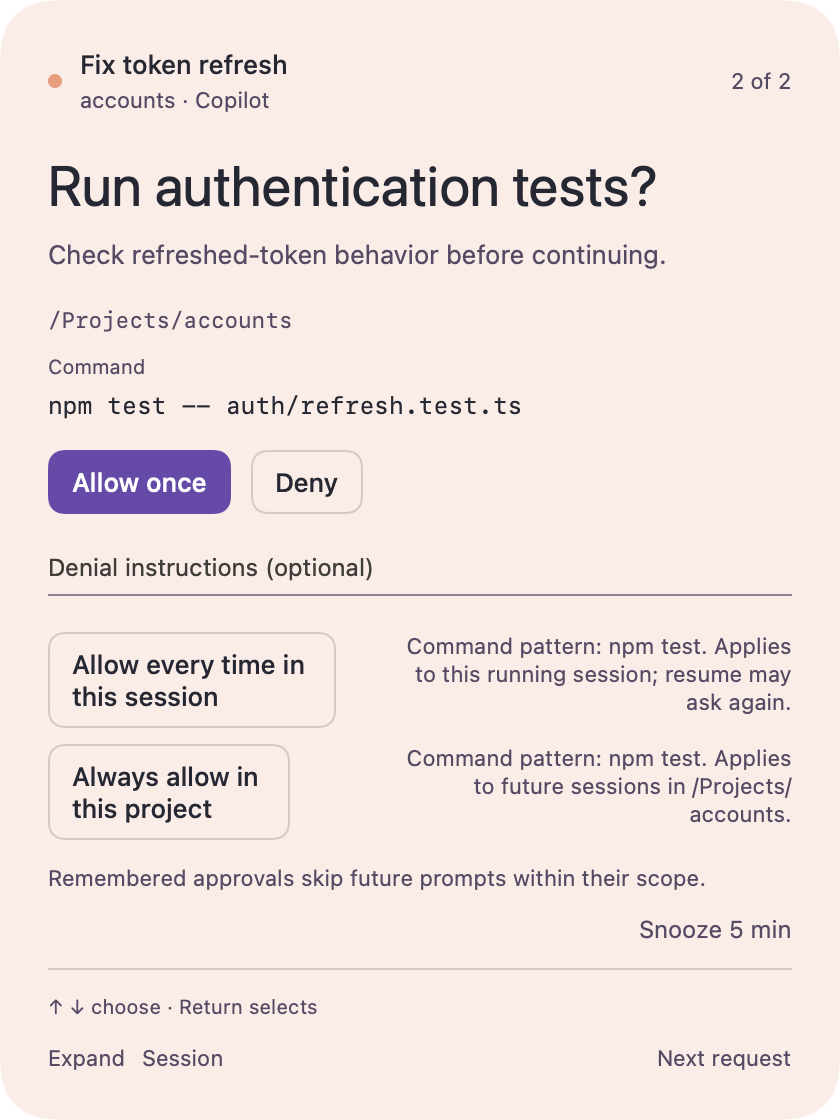
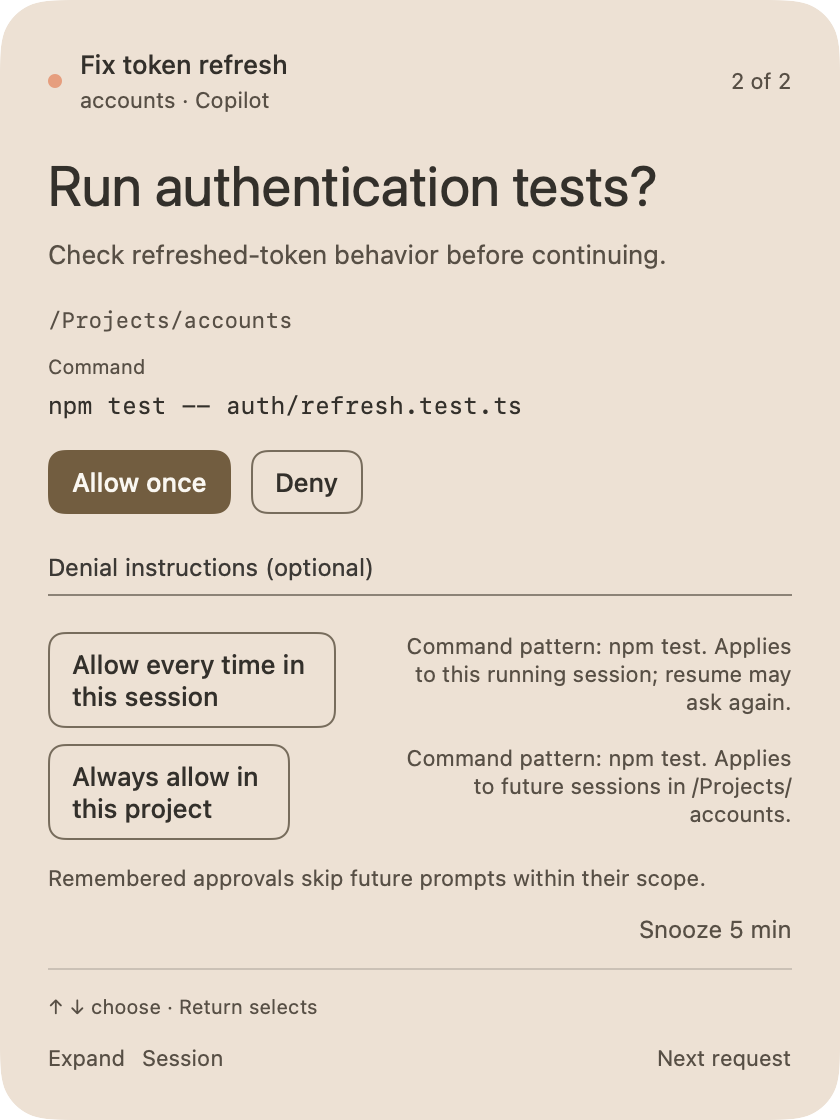
Follow macOS with warm beige and charcoal themes

diff --git a/Tests/UI/main.swift b/Tests/UI/main.swift
@@ -8,6 +8,7 @@ import Vision
     @MainActor static func main() throws {
         _ = NSApplication.shared
         NSApp.setActivationPolicy(.accessory)
+        NSApp.appearance = NSAppearance(named: .aqua)
         NSApp.finishLaunching()
         let plist = try PropertyListSerialization.propertyList(from: Data(contentsOf: URL(fileURLWithPath: "resources/Info.plist")), format: nil) as! [String: Any]
         precondition(plist["LSUIElement"] as? Bool != true, "Notify must be a normal Dock application, not a hidden menu-bar agent")
@@ -180,20 +181,49 @@ import Vision
         }
         let redCard = snapshot(0xEF4444), blueCard = snapshot(0x4488FF)
         store.setColor(0xF29A78, for: session)
-        let warmSurface = NSColor(store.sessionSurface(session)).usingColorSpace(.sRGB)!
-        precondition(warmSurface.redComponent > 0.90, "The lighter notification must retain a soft session tint")
         func luminance(_ color: NSColor) -> Double {
             func linear(_ value: Double) -> Double { value <= 0.04045 ? value / 12.92 : pow((value + 0.055) / 1.055, 2.4) }
             return 0.2126 * linear(color.redComponent) + 0.7152 * linear(color.greenComponent) + 0.0722 * linear(color.blueComponent)
         }
-        let noticeText = NSColor(Palette.noticeMuted).usingColorSpace(.sRGB)!
-        precondition(luminance(noticeText) < 0.25, "Light notifications need dark, readable detail text")
-        for color: UInt32 in [0xFFFFFF, 0xFFFF00, 0x00FF00, 0xF29A78, 0x408ED8, 0] {
-            store.setColor(color, for: session)
-            let surface = NSColor(store.sessionSurface(session)).usingColorSpace(.sRGB)!
-            let textLuminance = luminance(noticeText), surfaceLuminance = luminance(surface)
-            precondition((max(textLuminance, surfaceLuminance) + 0.05) / (min(textLuminance, surfaceLuminance) + 0.05) >= 4.5,
-                         "User-selected session colors must keep notification detail text readable")
+        func resolved(_ color: Color, appearance: NSAppearance.Name) -> NSColor {
+            var result: NSColor?
+            NSAppearance(named: appearance)!.performAsCurrentDrawingAppearance {
+                result = NSColor(color).usingColorSpace(.sRGB)
+            }
+            return result!
+        }
+        func contrast(_ foreground: NSColor, _ background: NSColor) -> Double {
+            let a = luminance(foreground), b = luminance(background)
+            return (max(a, b) + 0.05) / (min(a, b) + 0.05)
+        }
+        precondition(luminance(resolved(Palette.surface, appearance: .darkAqua)) < 0.15,
+                     "Dark macOS appearance must produce a genuinely dark workspace")
+        let lightSurface = resolved(Palette.surface, appearance: .aqua)
+        precondition(lightSurface.redComponent > lightSurface.blueComponent + 0.035,
+                     "Light mode must use warm beige rather than stark white")
+        for appearance: NSAppearance.Name in [.aqua, .darkAqua] {
+            for background in [Palette.surface, Palette.sidebar, Palette.raised] {
+                for foreground in [Palette.ink, Palette.muted] {
+                    precondition(contrast(resolved(foreground, appearance: appearance), resolved(background, appearance: appearance)) >= 4.5,
+                                 "Workspace text must remain readable in both appearances")
+                }
+            }
+            precondition(contrast(resolved(Palette.highlightInk, appearance: appearance), resolved(Palette.accent, appearance: appearance)) >= 4.5,
+                         "Highlighted actions must remain readable in both appearances")
+            for color: UInt32 in [0xFFFFFF, 0xFFFF00, 0x00FF00, 0xF29A78, 0x408ED8, 0] {
+                store.setColor(color, for: session)
+                let surface = resolved(store.sessionSurface(session), appearance: appearance)
+                for foreground in [Palette.ink, Palette.noticeMuted, Palette.amber, Palette.error, Palette.diffAdded, Palette.diffRemoved] {
+                    precondition(contrast(resolved(foreground, appearance: appearance), surface) >= 4.5,
+                                 "Every session tint must preserve text and warning contrast in both appearances")
+                }
+                for foreground in [Palette.line, Palette.accent] {
+                    precondition(contrast(resolved(foreground, appearance: appearance), surface) >= 3,
+                                 "Control outlines and keyboard focus must remain visible over session tints")
+                }
+                precondition(appearance == .aqua ? luminance(surface) > 0.6 : luminance(surface) < 0.15,
+                             "Session color must not overpower the system appearance")
+            }
         }
         var changedInteriorPixels = 0
         for x in stride(from: redCard.pixelsWide / 5, to: redCard.pixelsWide * 4 / 5, by: 4) {
@@ -363,9 +393,11 @@ import Vision
             visual.select("visual-0", request: "visual-request")
             visual.replyWorkspace.update(requestIDs: ["visual-request", "visual-question"])
             visual.setColor(0xF29A78, for: visual.selected!)
-            func capture<V: View>(_ view: V, width: CGFloat, height: CGFloat, name: String) throws {
+            func capture<V: View>(_ view: V, width: CGFloat, height: CGFloat, name: String,
+                                  appearance: NSAppearance.Name = .aqua) throws {
                 let capture = NSHostingView(rootView: view)
                 capture.sizingOptions = []
+                window.appearance = NSAppearance(named: appearance)
                 window.contentView = capture
                 capture.frame = NSRect(x: 0, y: 0, width: width, height: height)
                 window.setContentSize(NSSize(width: width, height: height))
@@ -389,6 +421,10 @@ import Vision
                 }
                 let bitmap = capture.bitmapImageRepForCachingDisplay(in: capture.bounds)!
                 capture.cacheDisplay(in: capture.bounds, to: bitmap)
+                if appearance == .darkAqua {
+                    let background = bitmap.colorAt(x: bitmap.pixelsWide - 16, y: bitmap.pixelsHigh / 2)!.usingColorSpace(.sRGB)!
+                    precondition(luminance(background) < 0.15, "Dark native windows must not contain a forced-light SwiftUI surface: \(name)")
+                }
                 try bitmap.representation(using: .png, properties: [:])!.write(to: output.appendingPathComponent(name))
                 if name == "control-center-no-results.png" || name == "control-center-activity-waiting.png" || name == "floating-command.png" {
                     let recognition = VNRecognizeTextRequest()
@@ -420,6 +456,8 @@ import Vision
             }
             try capture(DashboardView(store: visual), width: 1120, height: 800, name: "control-center.png")
             try capture(DashboardView(store: visual), width: 960, height: 620, name: "control-center-small.png")
+            try capture(DashboardView(store: visual), width: 1120, height: 800, name: "control-center-dark.png", appearance: .darkAqua)
+            try capture(DashboardView(store: visual), width: 960, height: 620, name: "control-center-small-dark.png", appearance: .darkAqua)
             visual.server.onDisconnect("visual-6")
             visual.server.onDisconnect("visual-7")
             try capture(DashboardView(store: visual), width: 1120, height: 800, name: "control-center-connections.png")
@@ -436,6 +474,7 @@ import Vision
             try capture(DashboardView(store: empty), width: 960, height: 620, name: "control-center-no-decisions.png")
             empty.stop()
             try capture(FloatingView(store: visual, openCenter: {}), width: 420, height: 560, name: "floating-command.png")
+            try capture(FloatingView(store: visual, openCenter: {}), width: 420, height: 560, name: "floating-command-dark.png", appearance: .darkAqua)
             window.makeKey()
             let enter = NSEvent.keyEvent(with: .keyDown, location: .zero, modifierFlags: [], timestamp: ProcessInfo.processInfo.systemUptime,
                                          windowNumber: window.windowNumber, context: nil, characters: "\r", charactersIgnoringModifiers: "\r",
@@ -451,15 +490,18 @@ import Vision
             _ = window.performKeyEquivalent(with: enter)
             precondition(visual.requestErrors["visual-request"] == nil, "Return must not approve while editing denial instructions")
             try capture(FloatingView(store: visual, openCenter: {}), width: 420, height: 500, name: "floating-short-screen.png")
+            try capture(FloatingView(store: visual, openCenter: {}), width: 420, height: 500, name: "floating-short-screen-dark.png", appearance: .darkAqua)
             visual.setColor(0x9654CE, for: visual.selected!)
             visual.floatingExpanded = true
             try capture(FloatingView(store: visual, openCenter: {}), width: 600, height: 760, name: "floating-expanded.png")
             try receive(["type": "error", "sessionID": "visual-0", "requestID": "visual-request",
                          "text": "Reply could not be delivered. Check the agent connection before trying again."])
             try capture(FloatingView(store: visual, openCenter: {}), width: 600, height: 760, name: "floating-error.png")
+            try capture(FloatingView(store: visual, openCenter: {}), width: 600, height: 760, name: "floating-error-dark.png", appearance: .darkAqua)
             visual.requestErrors.removeValue(forKey: "visual-request")
             visual.sending.insert("visual-request")
             try capture(FloatingView(store: visual, openCenter: {}), width: 600, height: 760, name: "floating-sending.png")
+            try capture(FloatingView(store: visual, openCenter: {}), width: 600, height: 760, name: "floating-sending-dark.png", appearance: .darkAqua)
             visual.sending.remove("visual-request")
             let diff = "--- a/auth/refresh.ts\n+++ b/auth/refresh.ts\n@@ -8,3 +8,4 @@\n-const token = cache.get(user.id)\n+const token = await refreshToken(user.id)\n+cache.set(user.id, token)\n return token\n"
             let diffDetail = String(data: try JSONSerialization.data(withJSONObject: [
@@ -473,10 +515,12 @@ import Vision
             ]])
             visual.replyWorkspace.next(requestIDs: ["visual-diff"])
             try capture(FloatingView(store: visual, openCenter: {}), width: 600, height: 760, name: "floating-diff.png")
+            try capture(FloatingView(store: visual, openCenter: {}), width: 600, height: 760, name: "floating-diff-dark.png", appearance: .darkAqua)
             visual.floatingExpanded = false
             visual.replyWorkspace.next(requestIDs: ["visual-question"])
             visual.replyWorkspace.drafts["visual-question"] = ReplyDraft(freeText: ["0": "Use banker's rounding for the final total."])
             try capture(FloatingView(store: visual, openCenter: {}), width: 420, height: 560, name: "floating-question.png")
+            try capture(FloatingView(store: visual, openCenter: {}), width: 420, height: 560, name: "floating-question-dark.png", appearance: .darkAqua)
             let otherFields = descendants(window.contentView!).compactMap { $0 as? NSTextField }
             precondition(otherFields.contains { $0.placeholderString == "Type your own answer" && $0.visibleRect.height > 20 },
                          "A short question must show its editable Other answer, not hide it in a collapsed scroll strip")
@@ -497,6 +541,12 @@ import Vision
                 ]])
             }
             try capture(DashboardView(store: visual), width: 1120, height: 800, name: "control-center-activity.png")
+            let settingsHeight = NSHostingView(rootView: SettingsView(store: visual)).fittingSize.height.rounded(.up)
+            try capture(SettingsView(store: visual), width: 550, height: settingsHeight, name: "settings.png")
+            try capture(SettingsView(store: visual), width: 550, height: settingsHeight, name: "settings-dark.png", appearance: .darkAqua)
+            visual.showSteering("visual-2")
+            try capture(FloatingView(store: visual, openCenter: {}), width: 420, height: 560, name: "floating-steering.png")
+            try capture(FloatingView(store: visual, openCenter: {}), width: 420, height: 560, name: "floating-steering-dark.png", appearance: .darkAqua)
             visual.stop()
             window.contentView = dashboard
         }
@@ -649,6 +699,25 @@ import Vision
         pumpNativeEvents()
         _ = appDelegate.applicationShouldHandleReopen(NSApp, hasVisibleWindows: false)
         precondition(center.isVisible, "Dock reopening must restore a closed workspace")
+        precondition(center.appearance == nil && replyPanel.appearance == nil,
+                     "Both app windows must inherit macOS appearance instead of forcing light mode")
+        for appearance: NSAppearance.Name in [.darkAqua, .aqua] {
+            NSApp.appearance = NSAppearance(named: appearance)
+            for _ in 0..<10 {
+                center.contentView?.layoutSubtreeIfNeeded()
+                RunLoop.current.run(until: Date().addingTimeInterval(0.025))
+                pumpNativeEvents()
+            }
+            precondition(center.effectiveAppearance.bestMatch(from: [.aqua, .darkAqua]) == appearance &&
+                         replyPanel.effectiveAppearance.bestMatch(from: [.aqua, .darkAqua]) == appearance,
+                         "Already-open windows must follow appearance changes without relaunching")
+            let view = center.contentView!
+            let bitmap = view.bitmapImageRepForCachingDisplay(in: view.bounds)!
+            view.cacheDisplay(in: view.bounds, to: bitmap)
+            let background = bitmap.colorAt(x: bitmap.pixelsWide - 16, y: bitmap.pixelsHigh / 2)!.usingColorSpace(.sRGB)!
+            precondition(appearance == .darkAqua ? luminance(background) < 0.15 : luminance(background) > 0.6,
+                         "Existing SwiftUI content must repaint after a system appearance change")
+        }
         for ownedWindow in NSApp.windows { ownedWindow.orderOut(nil) }
         print("Native notification color, Dock badge and reopen checks passed")
         if CommandLine.arguments.contains("--live-discovery") {

diff --git a/Sources/NotifyApp/Views.swift b/Sources/NotifyApp/Views.swift
@@ -3,23 +3,44 @@ import AppKit
 import NotifyCore
 
 enum Palette {
-    static let background = Color(red: 247.0 / 255, green: 245.0 / 255, blue: 250.0 / 255)
-    static let surface = Color.white
-    static let sidebar = Color(red: 244.0 / 255, green: 241.0 / 255, blue: 248.0 / 255)
-    static let raised = Color(red: 238.0 / 255, green: 232.0 / 255, blue: 246.0 / 255)
-    static let ink = Color(red: 37.0 / 255, green: 39.0 / 255, blue: 51.0 / 255)
-    static let line = ink.opacity(0.18)
-    static let muted = Color(red: 101.0 / 255, green: 91.0 / 255, blue: 115.0 / 255)
-    static let accent = Color(red: 106.0 / 255, green: 74.0 / 255, blue: 173.0 / 255)
-    static let highlightInk = Color.white
-    static let noticeMuted = Color(red: 87.0 / 255, green: 74.0 / 255, blue: 101.0 / 255)
-    static let amber = Color(red: 122.0 / 255, green: 73.0 / 255, blue: 27.0 / 255)
+    static let background = adaptive(0xEAE3D8, 0x211F1C)
+    static let surface = adaptive(0xF3EEE5, 0x292622)
+    static let sidebar = adaptive(0xE7DFD2, 0x24211E)
+    static let raised = adaptive(0xDCD0BE, 0x3C352C)
+    static let ink = adaptive(0x34302A, 0xE9E0D2)
+    static let line = adaptive(0x796B5A, 0xA18F78)
+    static let muted = adaptive(0x60564B, 0xBFB2A0)
+    static let accent = adaptive(0x765C3C, 0xCFAD7E)
+    static let highlightInk = adaptive(0xFBF7F0, 0x27221C)
+    static let noticeMuted = adaptive(0x594F44, 0xC4B7A5)
+    static let amber = adaptive(0x754718, 0xE1BB82)
+    static let error = adaptive(0x873B37, 0xE4A294)
+    static let diffAdded = adaptive(0x335C3E, 0xA8C6A0)
+    static let diffRemoved = adaptive(0x873B37, 0xDDA69E)
+
+    static func notificationSurface(for color: UInt32) -> Color {
+        adaptive(0xF0E8DC, 0x2C2823, tint: color)
+    }
+
+    private static func adaptive(_ light: UInt32, _ dark: UInt32, tint: UInt32? = nil) -> Color {
+        Color(nsColor: NSColor(name: nil) { appearance in
+            let isDark = appearance.bestMatch(from: [.aqua, .darkAqua]) == .darkAqua
+            let rgb = isDark ? dark : light
+            func channel(_ shift: UInt32) -> CGFloat {
+                let base = CGFloat((rgb >> shift) & 255) / 255
+                guard let tint else { return base }
+                let amount: CGFloat = isDark ? 0.12 : 0.10
+                return base * (1 - amount) + CGFloat((tint >> shift) & 255) / 255 * amount
+            }
+            return NSColor(srgbRed: channel(16), green: channel(8), blue: channel(0), alpha: 1)
+        })
+    }
     static func state(_ state: String) -> Color {
         switch state {
         case "waiting": return amber
         case "working", "starting": return muted
         case "ready": return accent
-        case "error": return .red
+        case "error": return error
         default: return muted
         }
     }
@@ -48,7 +69,7 @@ struct AgentIcon: View {
             .font(.system(size: 16, weight: .medium))
             .foregroundStyle(agent == "claude" ? Palette.amber : Palette.accent)
             .frame(width: 32, height: 32)
-            .background(.white.opacity(0.05), in: RoundedRectangle(cornerRadius: 8))
+            .background(Palette.raised, in: RoundedRectangle(cornerRadius: 8))
             .accessibilityLabel(agentName(agent))
     }
 }
@@ -64,7 +85,6 @@ struct DashboardView: View {
         WorkOverview(store: store)
         .background(Palette.background)
         .foregroundStyle(Palette.ink)
-        .preferredColorScheme(.light)
         .tint(Palette.accent)
         .sheet(isPresented: $store.settingsVisible) { SettingsView(store: store) }
         .safeAreaInset(edge: .bottom) {
@@ -160,7 +180,7 @@ struct ReadableContext: View {
                                 let added = line.hasPrefix("+") && !line.hasPrefix("+++")
                                 let removed = line.hasPrefix("-") && !line.hasPrefix("---")
                                 Text(line.isEmpty ? " " : line).font(.system(size: 11, design: .monospaced))
-                                    .foregroundStyle(added ? Color(red: 0.13, green: 0.36, blue: 0.23) : (removed ? Color(red: 0.52, green: 0.13, blue: 0.22) : Palette.ink))
+                                    .foregroundStyle(added ? Palette.diffAdded : (removed ? Palette.diffRemoved : Palette.ink))
                                     .fixedSize(horizontal: false, vertical: true).frame(maxWidth: .infinity, alignment: .leading)
                             }
                         }.textSelection(.enabled)
@@ -469,7 +489,7 @@ struct FloatingView: View {
                 }.buttonStyle(.plain).font(.system(size: 11)).foregroundStyle(Palette.noticeMuted)
             }
         }.padding(24).background(floatingSurface).clipShape(RoundedRectangle(cornerRadius: 26))
-            .foregroundStyle(Palette.ink).preferredColorScheme(.light).tint(Palette.accent)
+            .foregroundStyle(Palette.ink).tint(Palette.accent)
     }
     private var floatingSurface: Color {
         let id = store.steeringSessionID ?? store.floatingRequests.first(where: { $0.request.id == store.replyWorkspace.floatingID })?.session.id ?? store.floatingRequests.first?.session.id
@@ -509,6 +529,6 @@ struct SettingsView: View {
             Text("History contains session labels and decisions, not answers. Conversation previews stay on this Mac unless you explicitly request an AI description; that sends a limited excerpt through your Copilot account.")
                 .font(.system(size: 10)).foregroundStyle(Palette.muted)
             Button("Remove disconnected sessions") { store.clearDisconnected() }
-        }.padding(28).frame(width: 550).background(Palette.background).foregroundStyle(Palette.ink).preferredColorScheme(.light).tint(Palette.accent)
+        }.padding(28).frame(width: 550).background(Palette.background).foregroundStyle(Palette.ink).tint(Palette.accent)
     }
 }

diff --git a/Sources/NotifyApp/AppDelegate.swift b/Sources/NotifyApp/AppDelegate.swift
@@ -144,7 +144,6 @@ final class AppDelegate: NSObject, NSApplicationDelegate, NSWindowDelegate {
         center.titleVisibility = .hidden
         center.titlebarAppearsTransparent = true
         center.backgroundColor = NSColor(Palette.surface)
-        center.appearance = NSAppearance(named: .aqua)
         center.contentMinSize = NSSize(width: 960, height: 620)
         center.isReleasedWhenClosed = false
         center.delegate = self
@@ -161,7 +160,6 @@ final class AppDelegate: NSObject, NSApplicationDelegate, NSWindowDelegate {
         panel.hidesOnDeactivate = false
         panel.isOpaque = false
         panel.backgroundColor = .clear
-        panel.appearance = NSAppearance(named: .aqua)
         panel.hasShadow = true
         panel.isMovableByWindowBackground = true
         let floatingHost = NSHostingView(rootView: FloatingView(store: store, openCenter: { [weak self] in self?.openCenter() }))

diff --git a/Sources/NotifyApp/WorkspaceView.swift b/Sources/NotifyApp/WorkspaceView.swift
@@ -4,10 +4,7 @@ import NotifyCore
 
 extension Store {
     func sessionSurface(_ session: SessionRecord) -> Color {
-        let rgb = appearance.color(for: session)
-        return Color(red: 0.82 + Double((rgb >> 16) & 255) / 255 * 0.18,
-                     green: 0.82 + Double((rgb >> 8) & 255) / 255 * 0.18,
-                     blue: 0.82 + Double(rgb & 255) / 255 * 0.18)
+        Palette.notificationSurface(for: appearance.color(for: session))
     }
     func sessionColor(_ session: SessionRecord) -> Color {
         let rgb = appearance.color(for: session)

diff --git a/docs/guide.md b/docs/guide.md
@@ -10,7 +10,7 @@ Notify appears in the Dock and Cmd-Tab. Agent launchers start it in the backgrou
 
 ## Session workspace and useful notifications
 
-Each chat has a stable color shared by its session row, activity header and the entire floating notification. Change it using **Session color** in **Session settings**; **Reset** restores the automatic accent. The panel uses a soft tint with dark readable text. Colors are stored locally and follow the saved chat when it reconnects or resumes. Warning/error colors remain separate.
+Notify follows macOS appearance automatically, including changes while it's running: muted beige and taupe in light mode, warm charcoal and sand in dark mode. Each chat has a stable color shared by its session row, activity header and floating notification. Change it using **Session color** in **Session settings**; **Reset** restores the automatic accent. Notifications use a subtle session tint with contrasting text in both modes. Colors are stored locally and follow the saved chat when it reconnects or resumes. Warning/error colors remain separate.
 
 Floating cards show the chat title and project/agent above the full request. **Session > Open session** selects that exact chat. **Expand** enlarges the panel in place. Sending a reply keeps the card visible until acknowledgment; delivery failures appear inline, not in a blocking control-center popup. Replayed pending prompts do not repeatedly notify, and new arrivals preserve your selected question and draft.
 

diff --git a/README.md b/README.md
@@ -4,7 +4,10 @@
 
 Answer Copilot and Claude Code requests from a small floating panel, without switching back to the terminal.
 
-![Notify's session overview and inline approval controls](docs/images/sessions.png)
+<picture>
+  <source media="(prefers-color-scheme: dark)" srcset="docs/images/sessions-dark.png">
+  <img src="docs/images/sessions.png" alt="Notify's session overview and inline approval controls">
+</picture>
 
 ## A little less switching
 
@@ -13,9 +16,13 @@ Answer Copilot and Claude Code requests from a small floating panel, without swi
 - **Keep your hands on the keyboard.** Up/Down choose; Return activates the highlighted choice.
 - **Keep sessions straight.** Individual colors, clear connection groups, and recent activity.
 - **Keep your terminal.** Attach to an existing Copilot session without replacing it.
+- **Easy on the eyes.** Muted beige by day, warm charcoal by night. Follows your Mac's appearance.
 
 <p align="center">
-  <img src="docs/images/notification.png" alt="A session-colored notification with the command, permission scopes, and reply controls" width="360">
+  <picture>
+    <source media="(prefers-color-scheme: dark)" srcset="docs/images/notification-dark.png">
+    <img src="docs/images/notification.png" alt="A session-colored notification with the command, permission scopes, and reply controls" width="360">
+  </picture>
 </p>
 
 <p align="center"><sub>Real app captures with fictional sessions.</sub></p>
